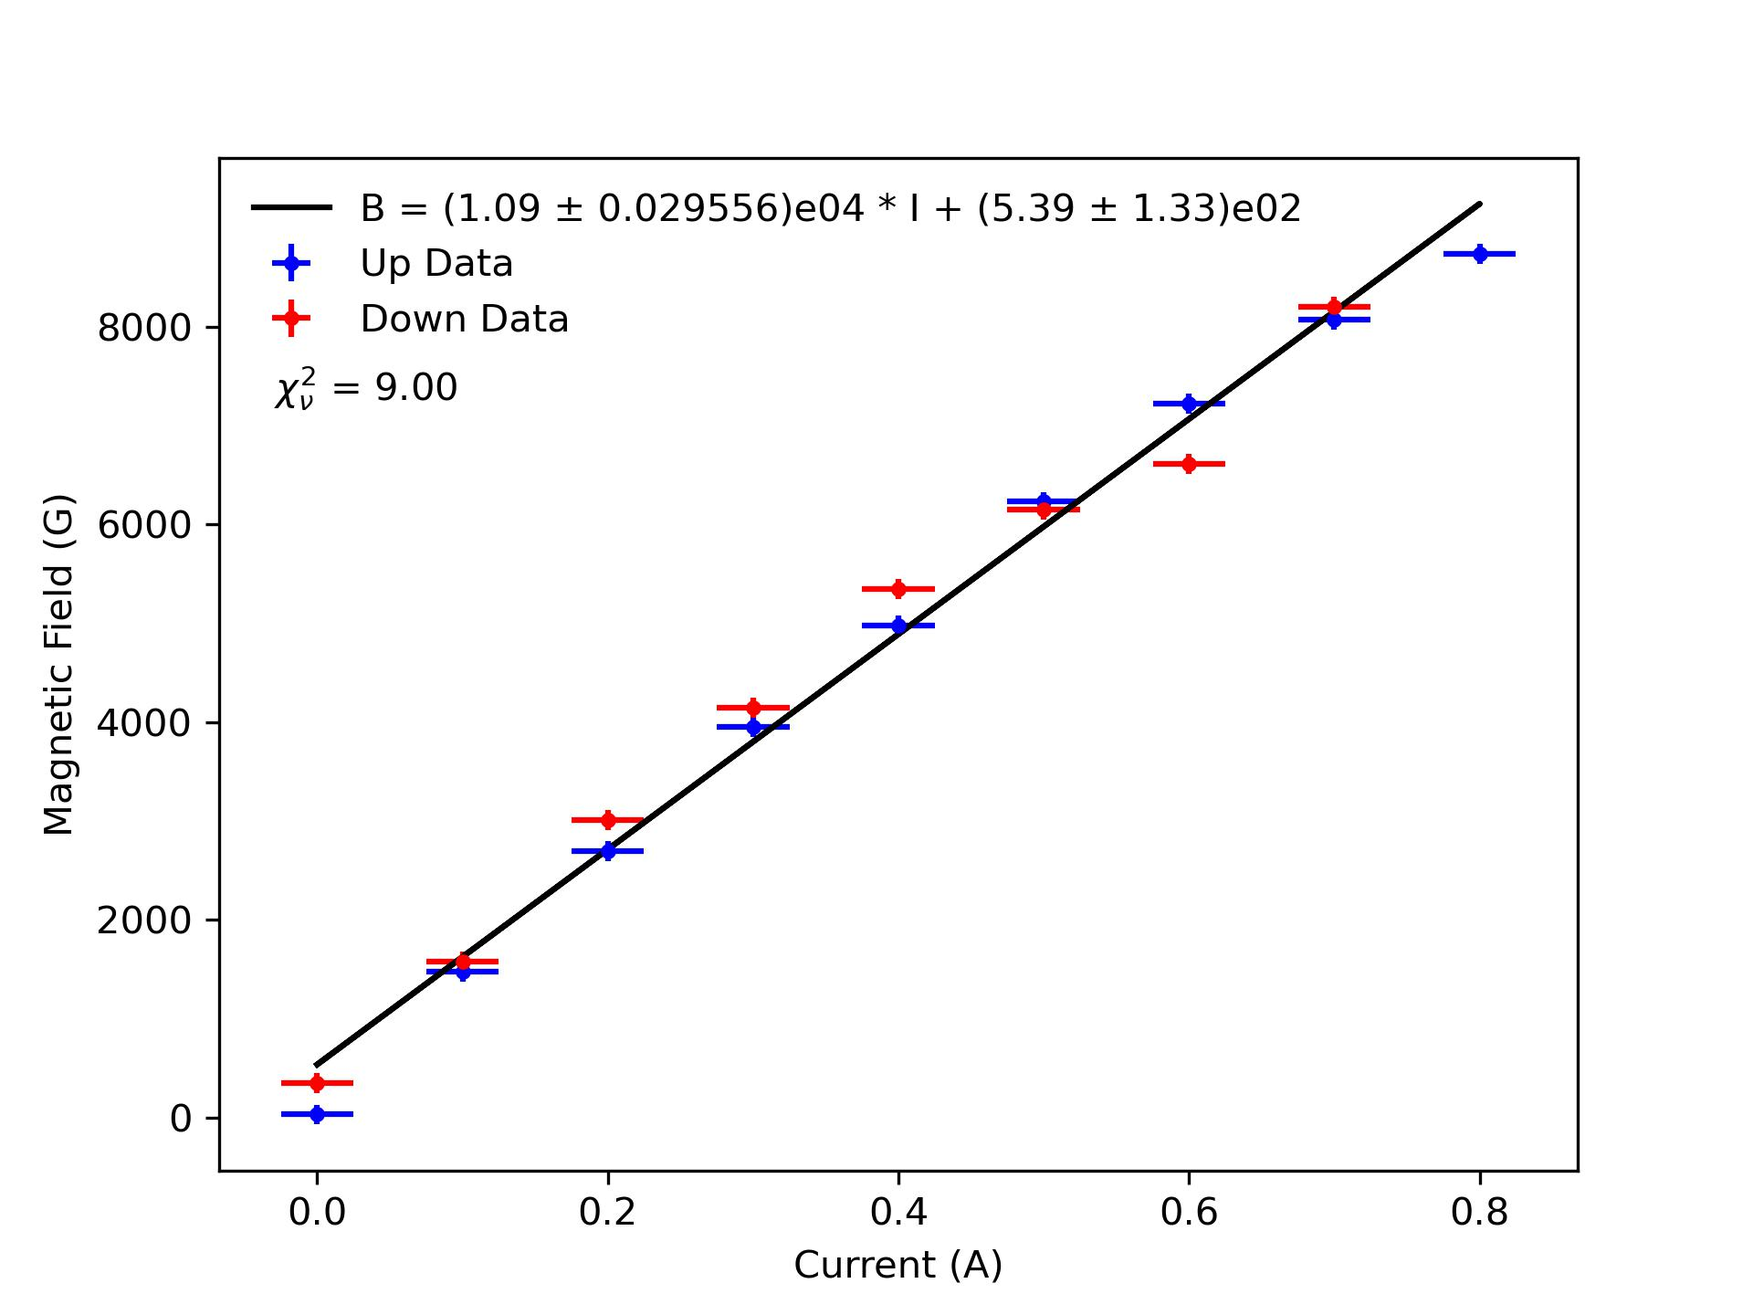
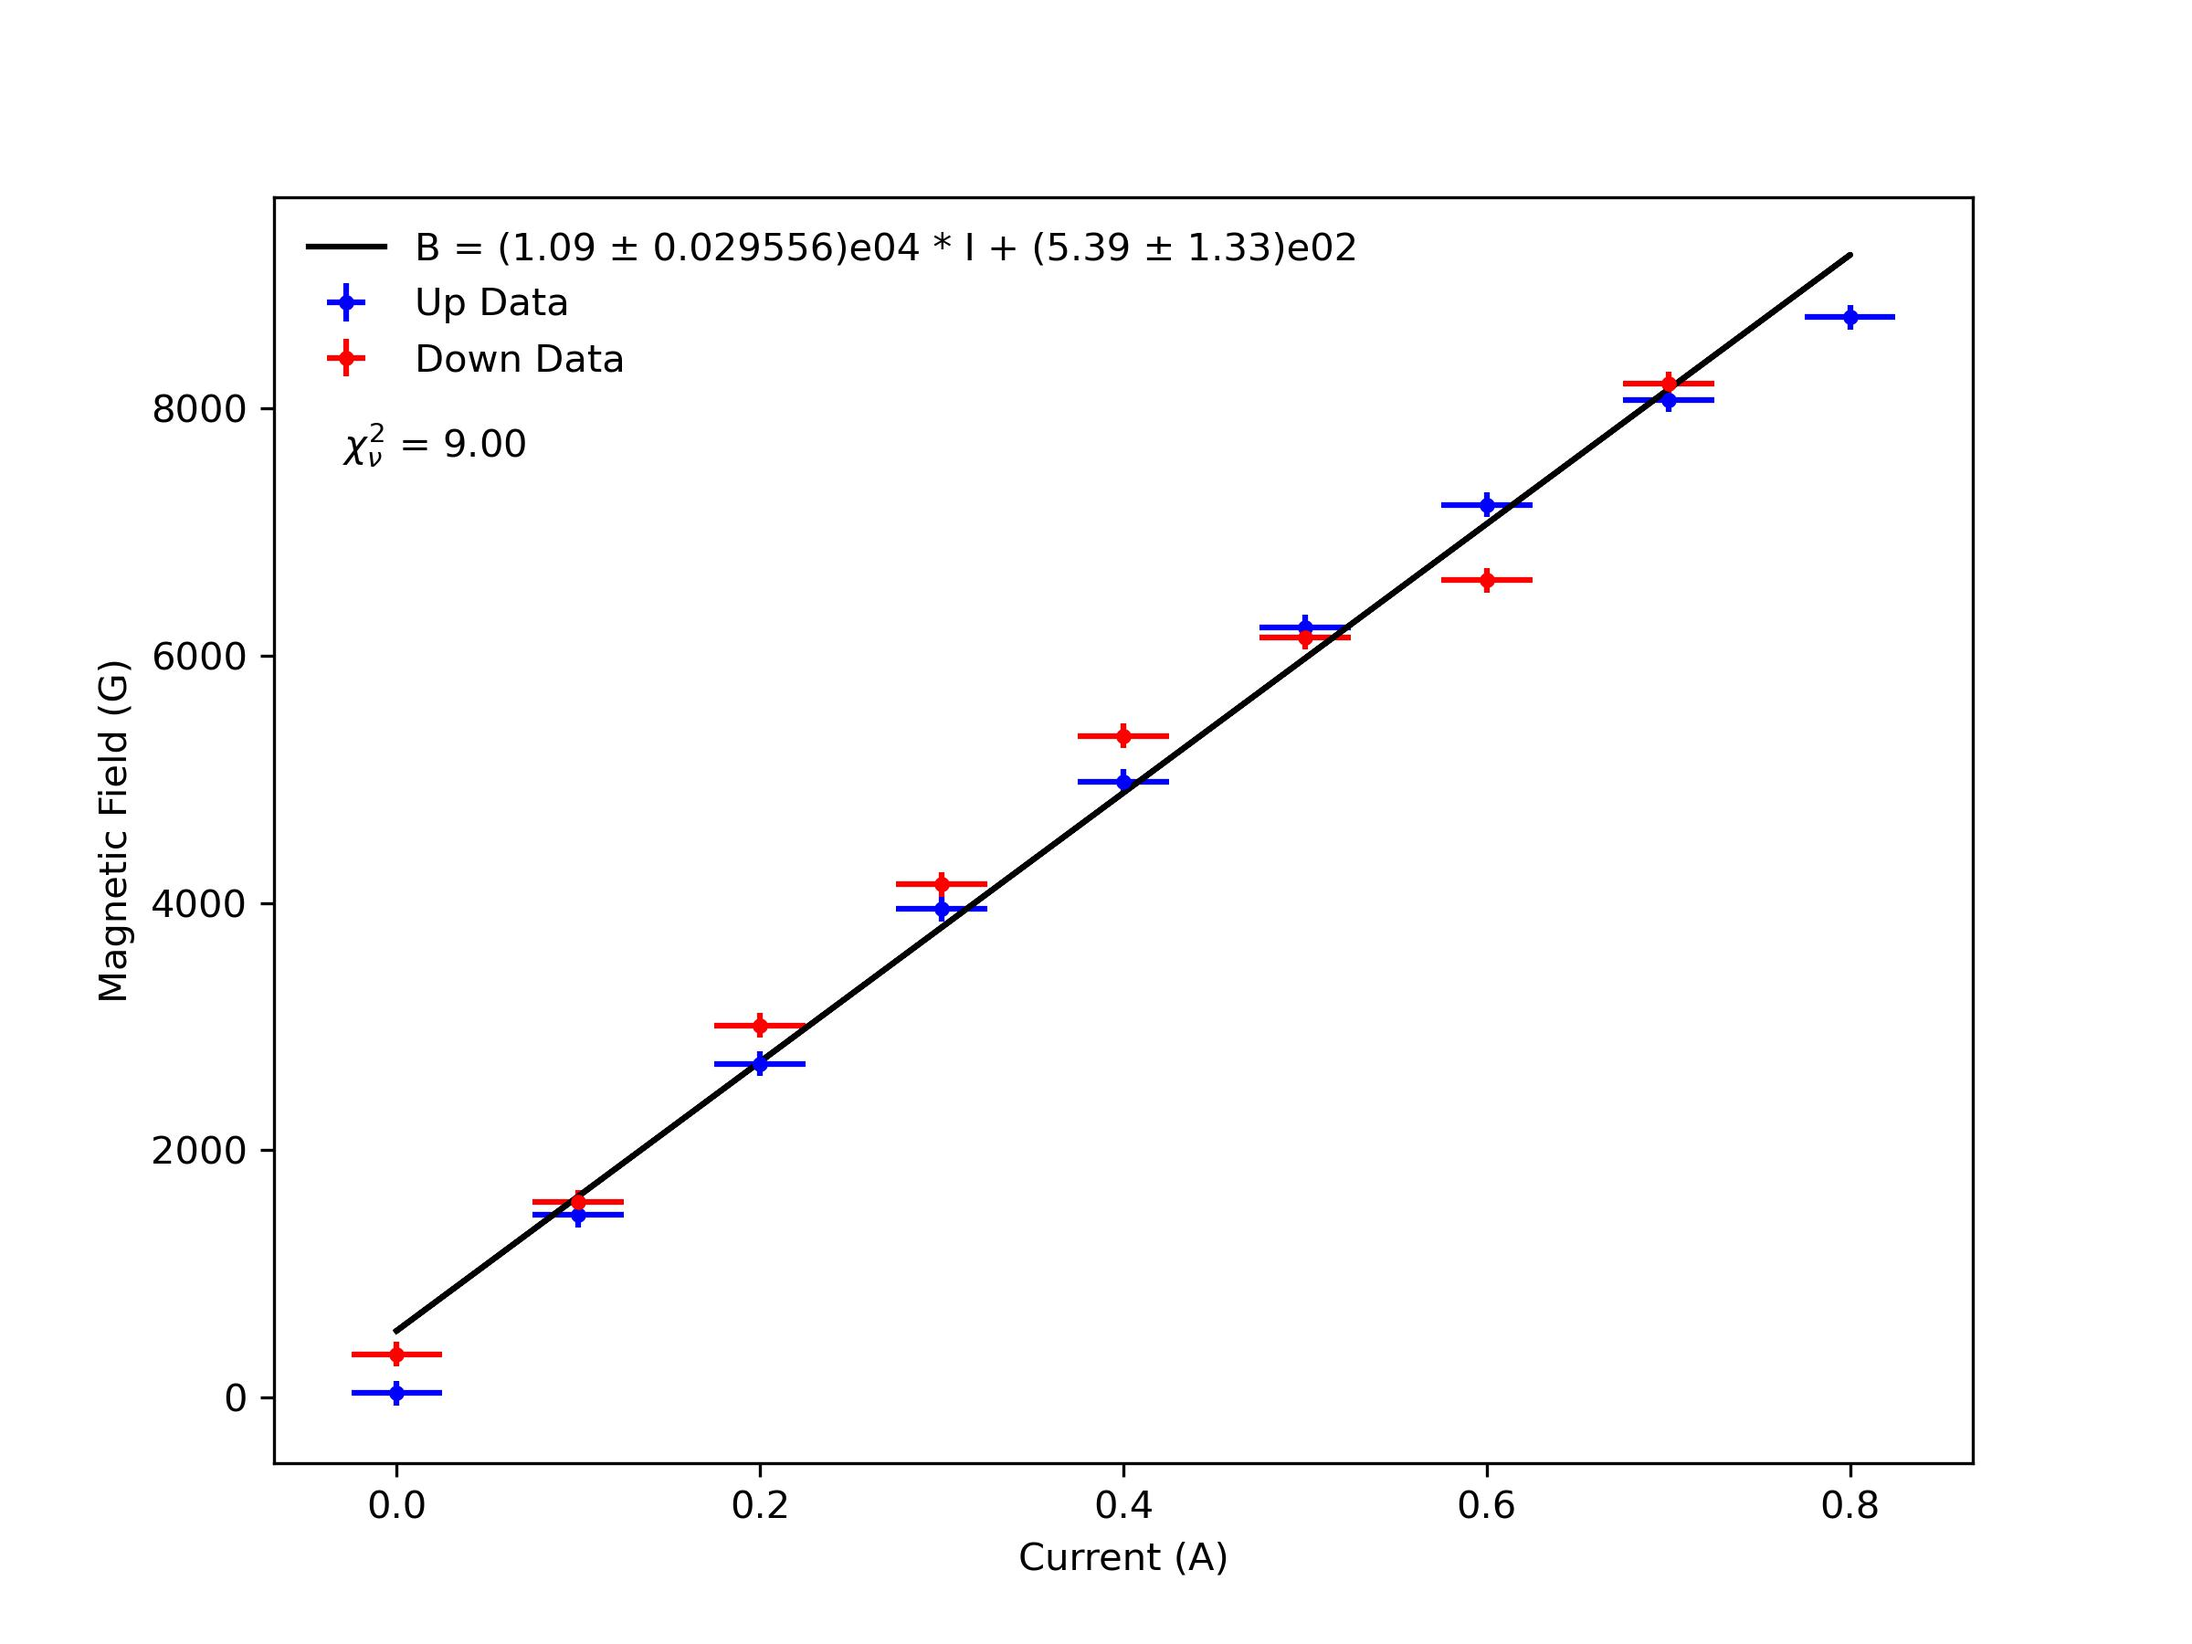
claras

diff --git a/data_analysis/full_analysis.py b/data_analysis/full_analysis.py
@@ -281,11 +281,12 @@ def plot_BvsI (B_err, I_err):
     hyst_err = root_mean_squared_error(B_tot, a*np.array(I_tot) + b)
     
     #plotting
+    plt.figure(figsize=(8,6))
     plt.errorbar(I_up, B_up, yerr=B_err, xerr=I_err, fmt='b.', label='Up Data')
     plt.errorbar(I_down, B_down, yerr=B_err, xerr=I_err, fmt='r.', label='Down Data')
     plt.plot(I_tot, a*np.array(I_tot) + b, 'k-', label='B = ({:.2f} \u00b1 {:f})e04 * I + ({:.2f} \u00b1 {:.2f})e02'.format(a*10**(-4),sig_a*10**(-4),b*10**(-2),sig_b*10**(-2)))
     plt.legend(frameon=False, loc = 'upper left')
-    plt.annotate("$\u03c7_\u03bd^2$ = {:.2f}".format(red_chi_sq(B_tot, a*np.array(I_tot) + b, B_err)), (-0.03, .83*max(B_tot)))
+    plt.annotate("$\u03c7_\u03bd^2$ = {:.2f}".format(red_chi_sq(B_tot, a*np.array(I_tot) + b, B_err)), (-0.03, .87*max(B_tot)))
     plt.ylabel('Magnetic Field (G)'); plt.xlabel('Current (A)')
     plt.savefig('current_vs_magnetic_field.jpg', dpi=300)
     plt.show()
